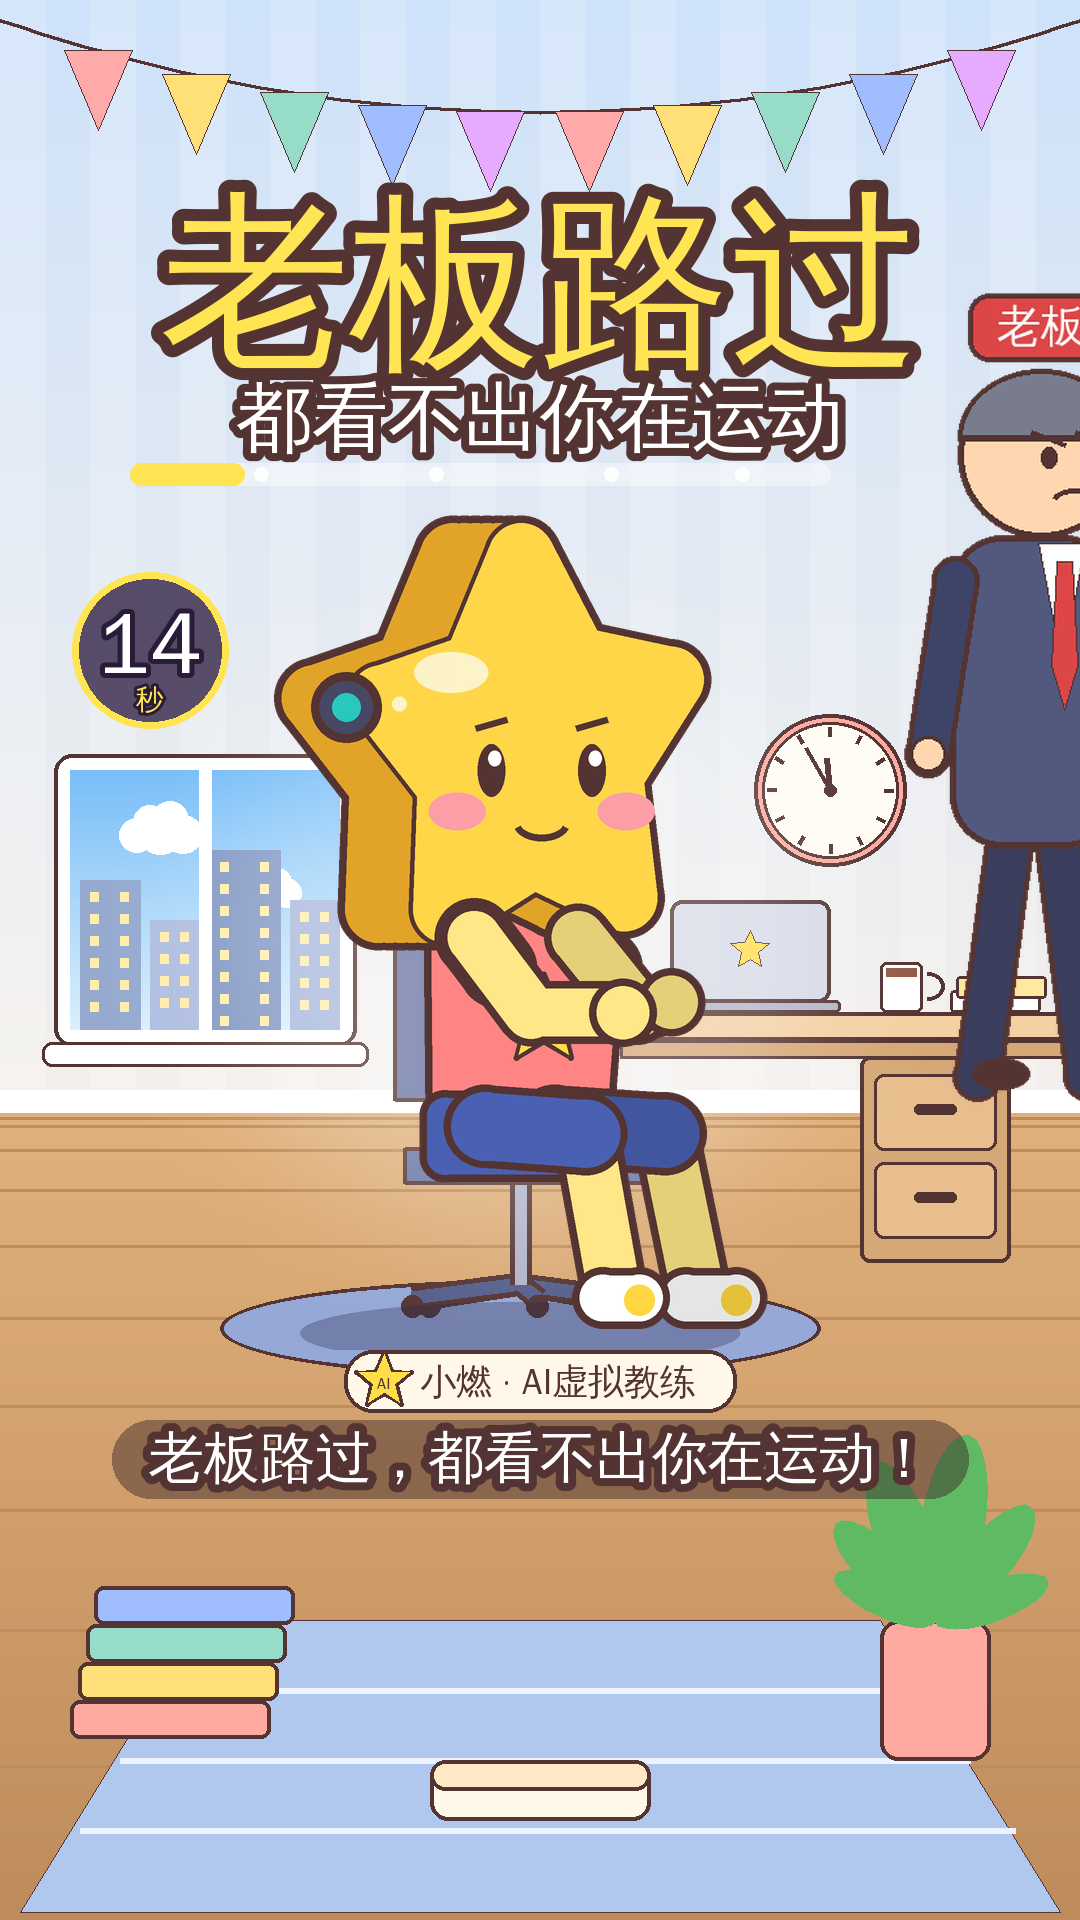
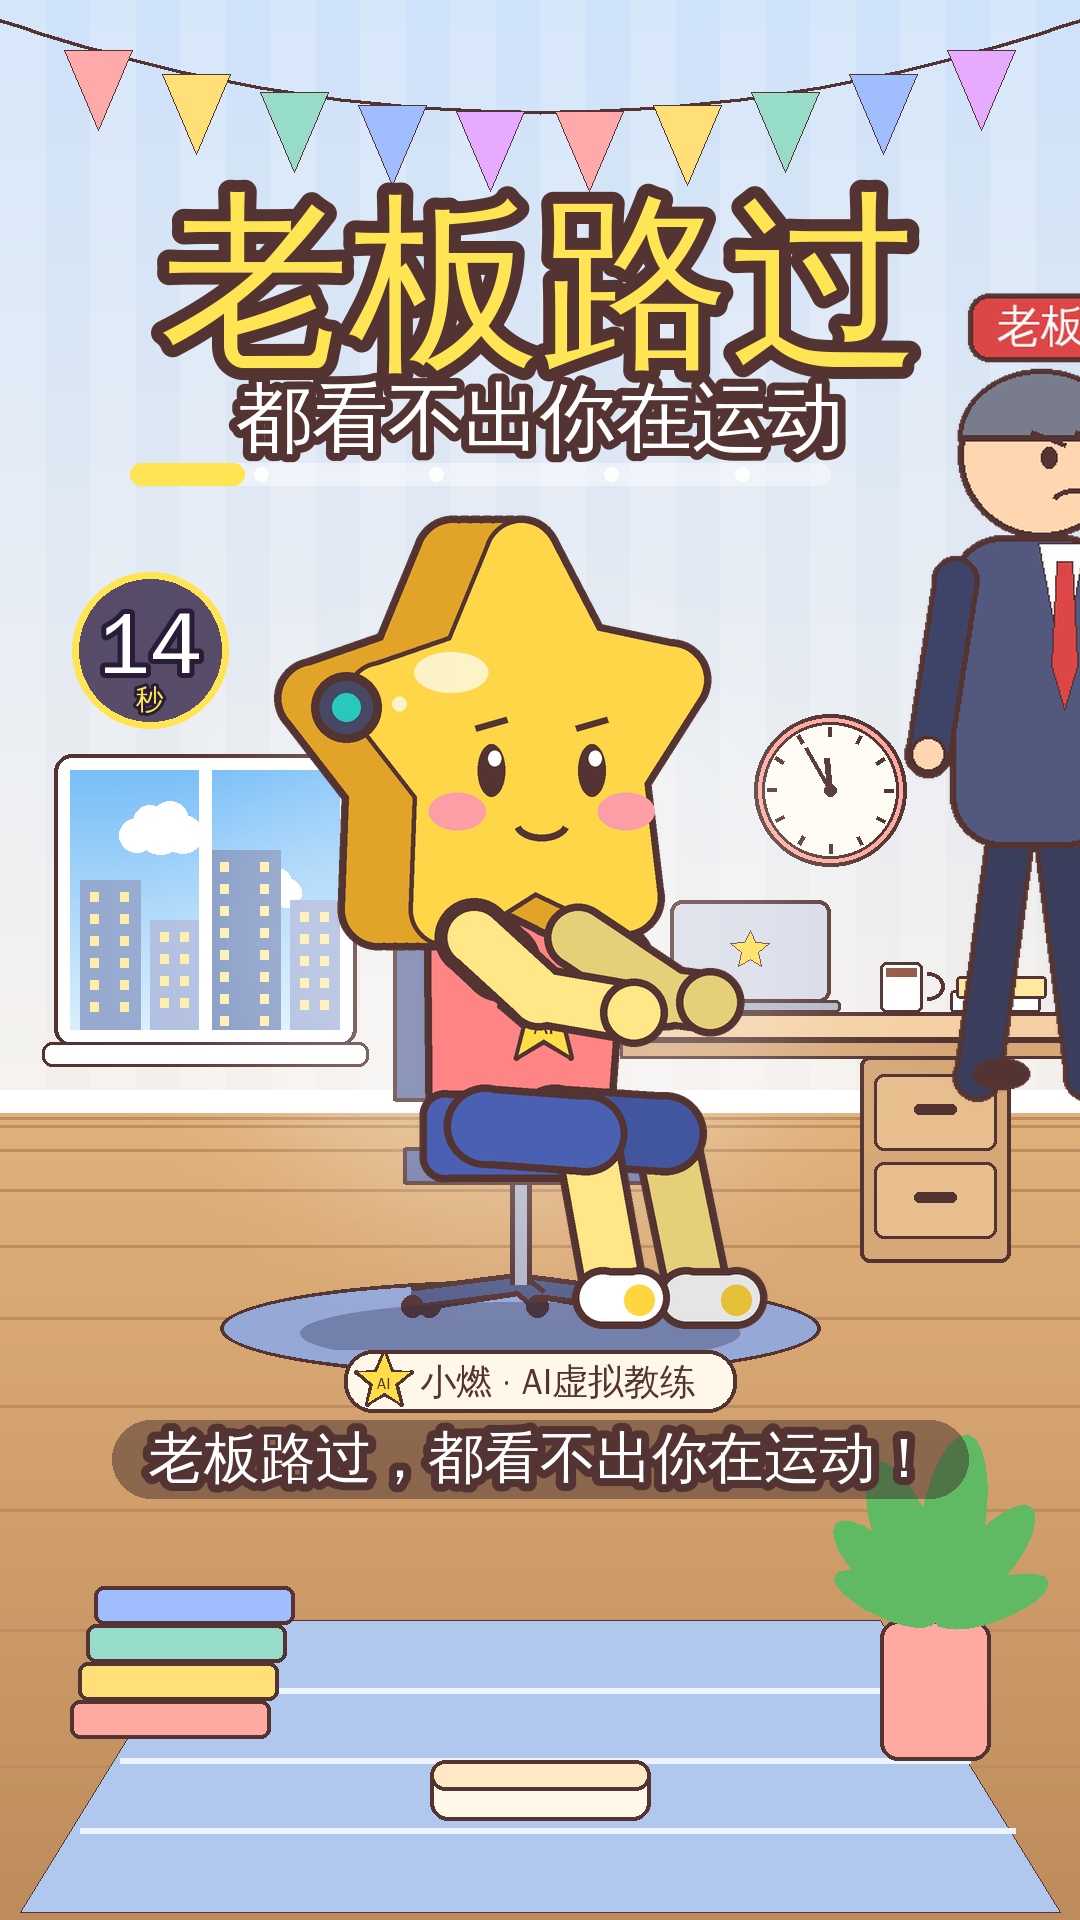
小燃第二支：钩子段敲键盘手势改为双手伸向桌面
Claude-Session: https://claude.ai/code/session_01Vdfstc2qF2F5haV4kWEzbN

Changed region(s): [[0.4278, 0.4688, 0.7028, 0.5625]]

diff --git a/fitness_coach/ep2_office/render.py b/fitness_coach/ep2_office/render.py
@@ -89,7 +89,7 @@ def pose(t):
         b = body(SEAT, 0, 3 + 1.2 * math.sin(t * 6))
         for s in (-1, 1):
             legs[s] = sit_leg(b, s)
-            sh = b["sh"][s]; e, h = ik(sh, V(s * 14, DESK_H + 2 + 2.5 * math.sin(t * 17 + s * 1.5), 94), UARM, FARM, V(s * .5, -1, -.2)); arms[s] = (sh, e, h)
+            sh = b["sh"][s]; e, h = ik(sh, V(-10 if s == -1 else 34, DESK_H + 2 + 2.5 * math.sin(t * 17 + s * 1.5), 97), UARM, FARM, V(s * 1, -.8, -.3)); arms[s] = (sh, e, h)
         mood = "grin" if t > 2.3 else "smile"; turn = ease((t - 2.2) / .5) * 0.0
     elif name == "shrug":                # 耸肩 ×4（每次 1 秒）
         p = lt % 1.0; u = ease(math.sin(math.pi * p)); b = body(SEAT, 0, 2, 0, 20 * u)
